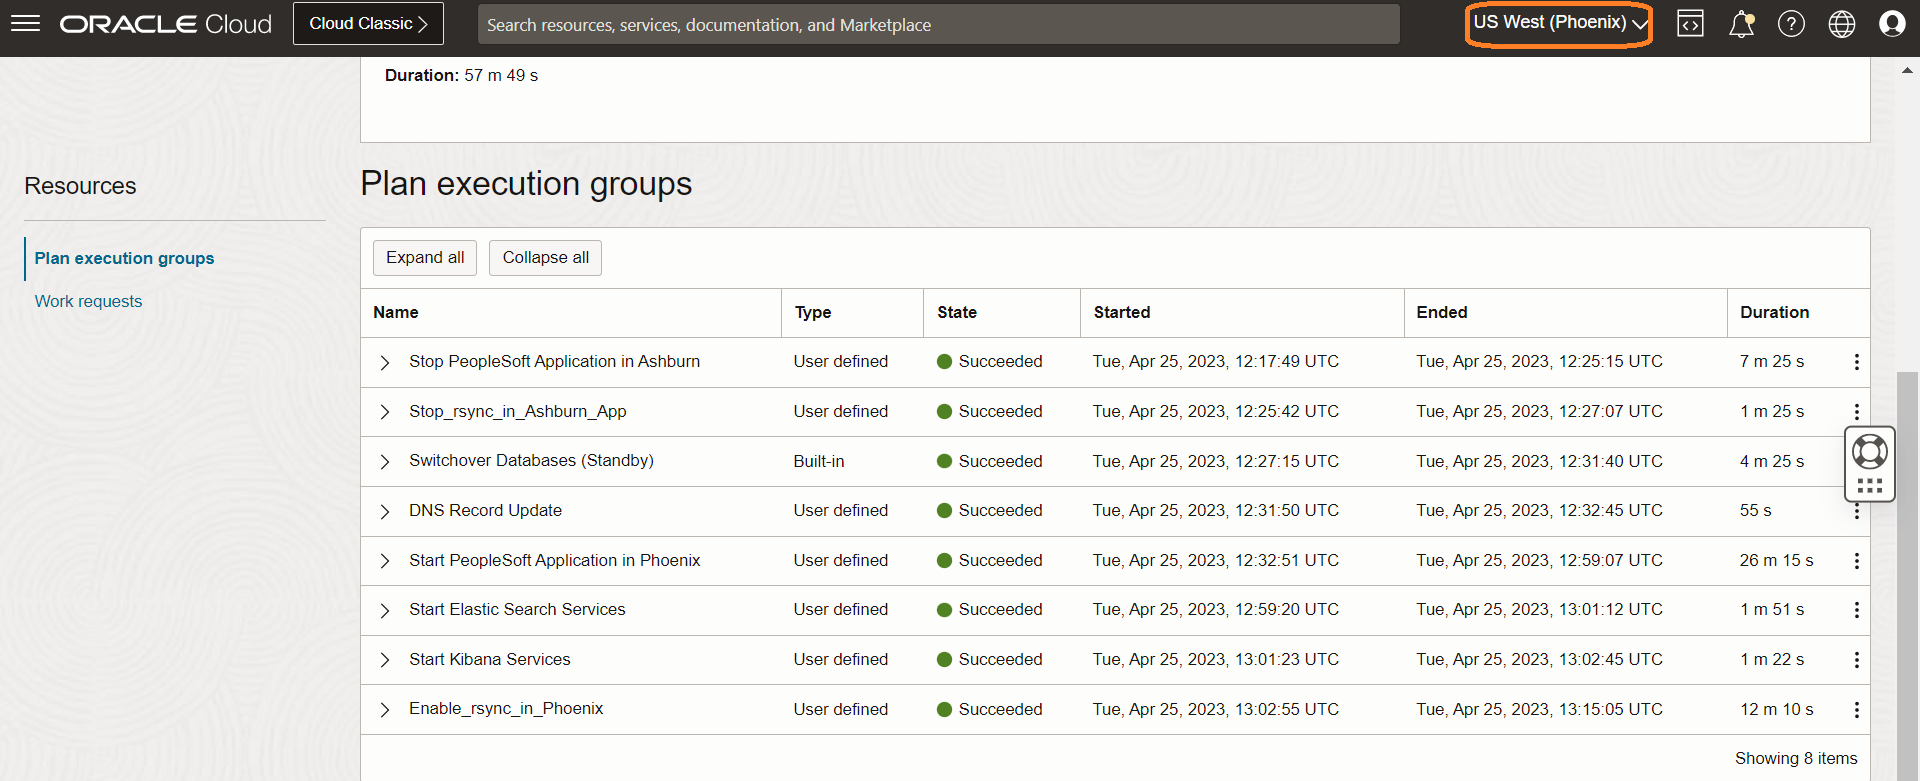
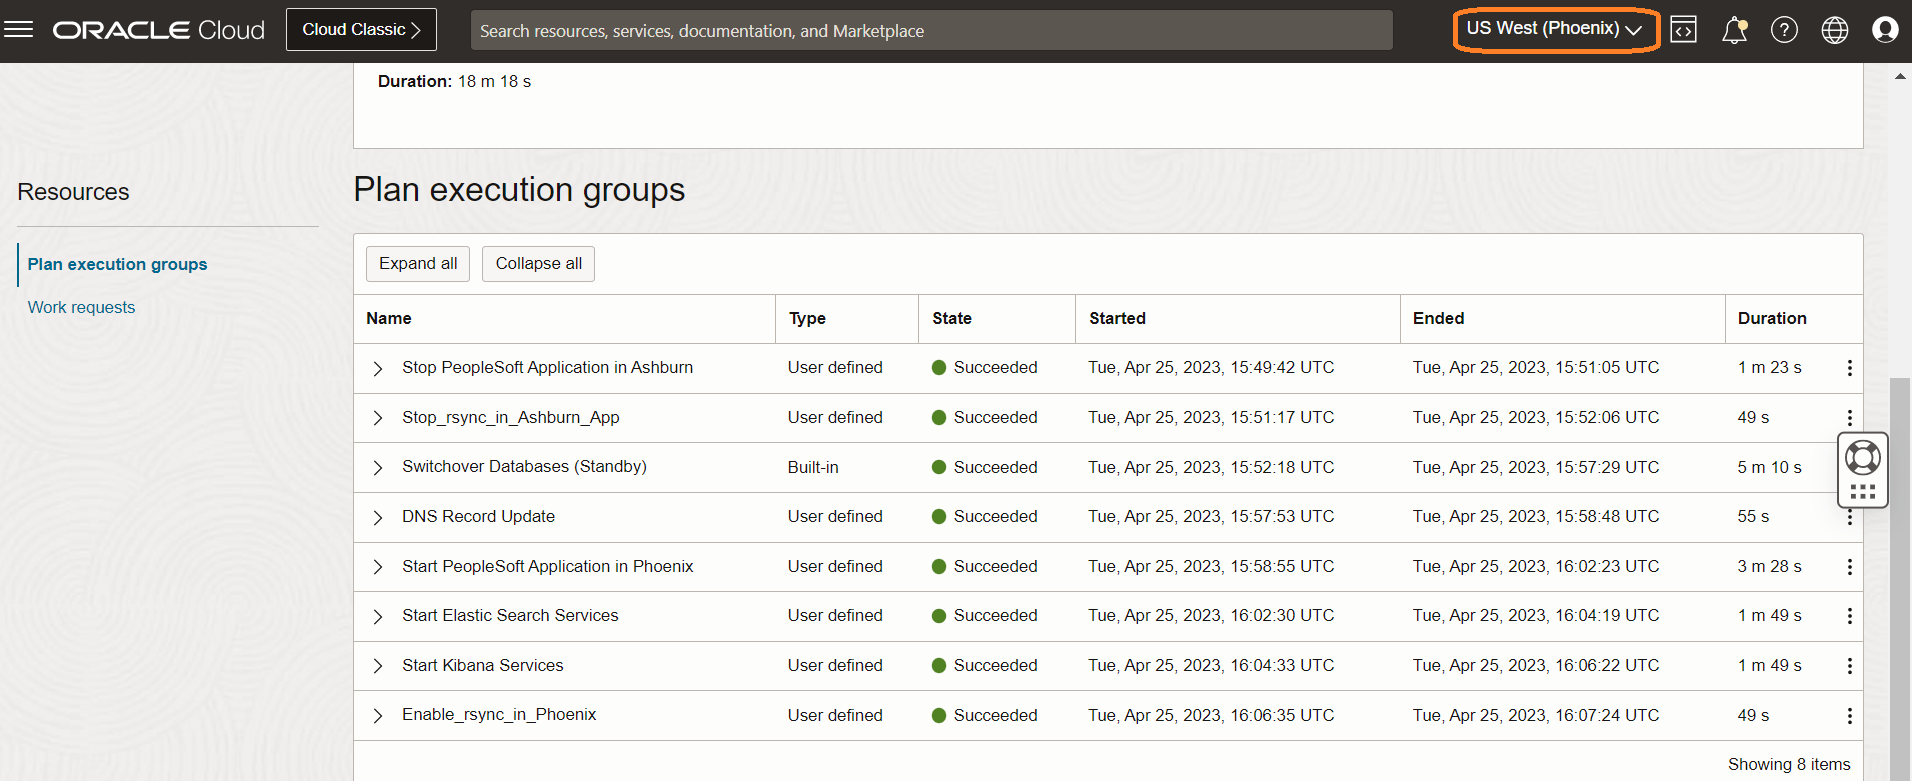
n

diff --git a/peoplesoft-fullstack-dr/switchover-execute/switchover-execute.md b/peoplesoft-fullstack-dr/switchover-execute/switchover-execute.md
@@ -82,6 +82,8 @@ Estimated Time: 20 Minutes
 
       ![drpg execution done](./images/phoenix-execute-done.png)
 
+   The entire DR Switchover operation took around 18 minutes to complete.
+
 You may now **proceed to the next lab**.
 
 ## Acknowledgements
